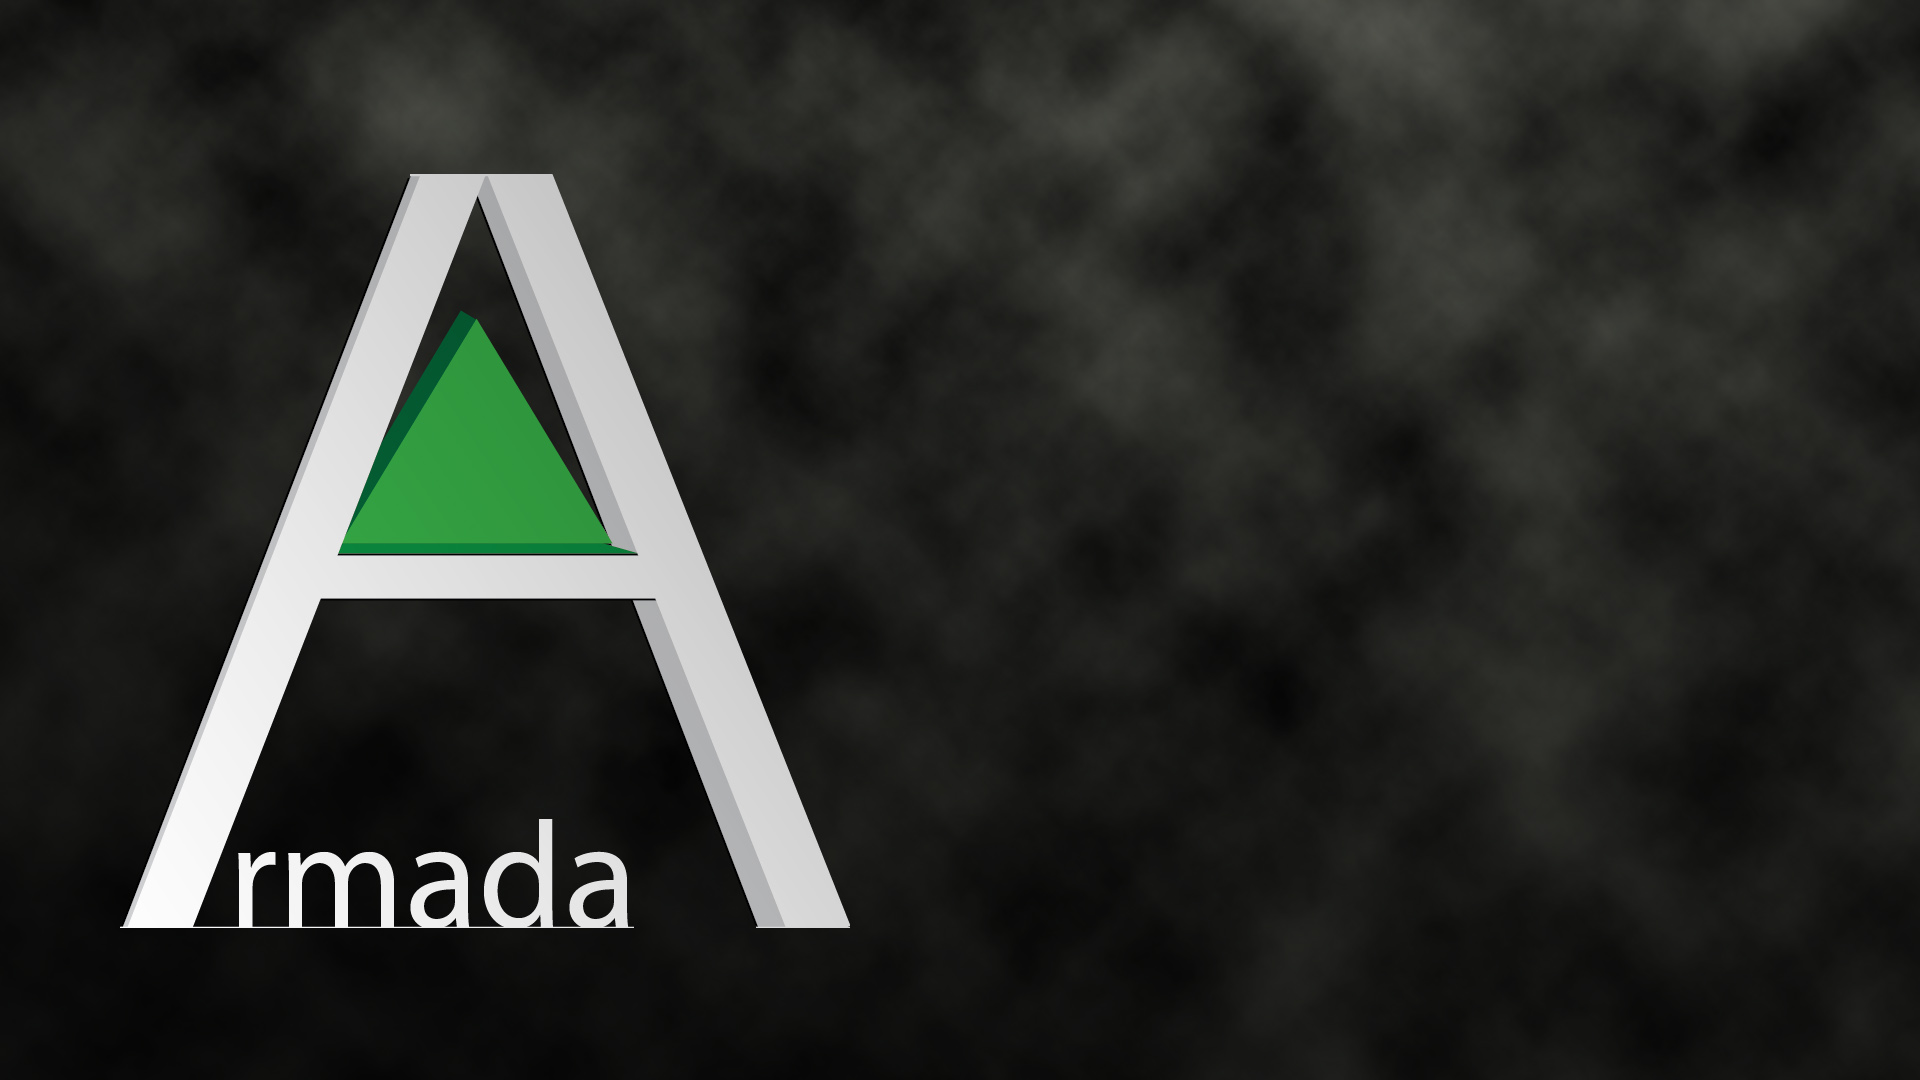
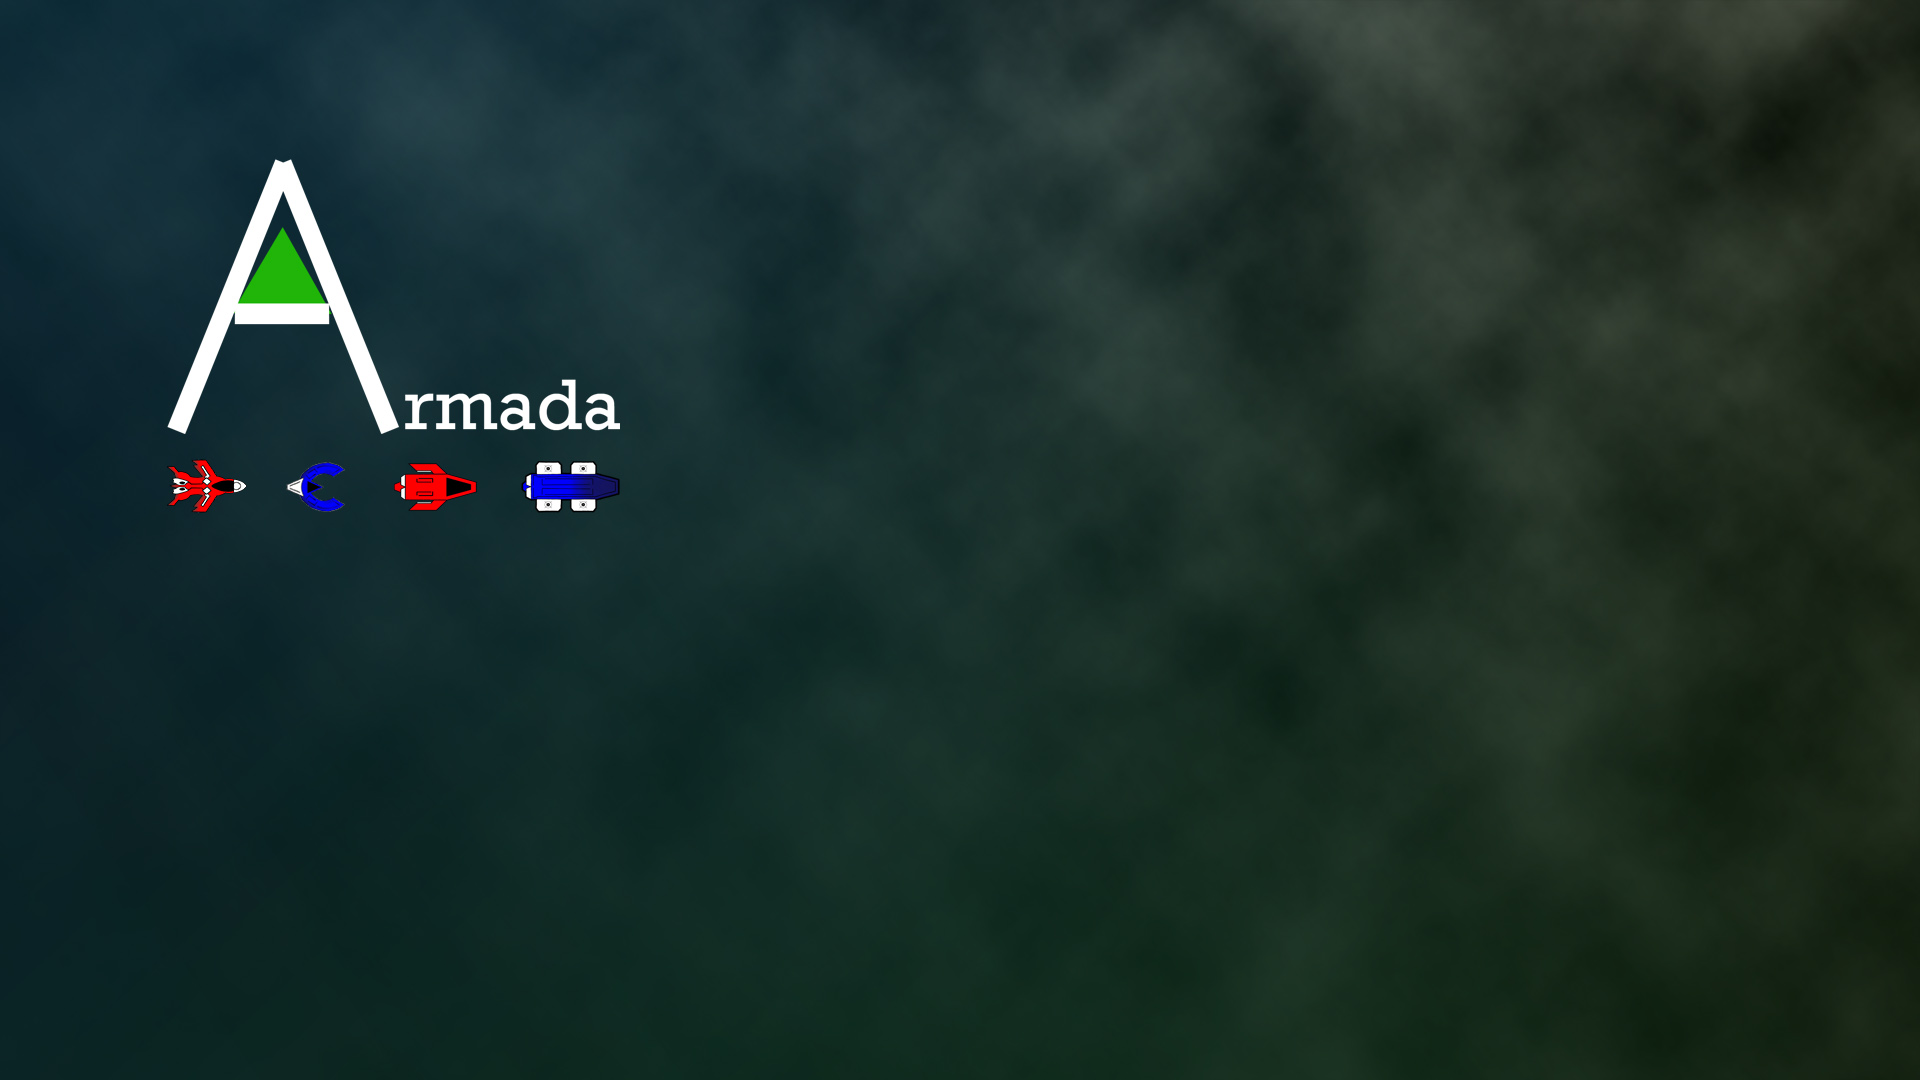
Improved Main Menu Screen

diff --git a/Armada/src/view/MainMenuPanel.java b/Armada/src/view/MainMenuPanel.java
@@ -22,28 +22,21 @@ A class representing the main menu of the system.
 public class MainMenuPanel extends JPanel implements ActionListener{
     private boolean launchingGame = false;
     ApplicationManager am;
-    private JProgressBar progressBar = new JProgressBar(0, PreloadImageList.getList().length);
     JButton startButton = new JButton("Start Game Old Way");
     JButton startButton2 = new JButton("Single Player");
     JButton exitButton = new JButton("Quit Game");
     JButton networkedGameHostButton = new JButton("New Multiplayer Host");
     JButton networkedGameClientButton = new JButton("Connect to Multiplayer Host");
     private String message = "";
-    
+    private float progress = 0.0f;
     BufferedImage backgroundImage;
-    static final String IMAGE_NAME = "ArmadaBackground2";
-    
+    static final String IMAGE_NAME = "ArmadaBackground";
     /**
     Creates a new instance of MainMenuPanel.
     */
     public MainMenuPanel(ApplicationManager am) {
         this.am = am;
         
-        progressBar.setValue(0);
-	JPanel progressPanel = new JPanel();
-	progressPanel.setLayout(new BoxLayout(progressPanel, BoxLayout.PAGE_AXIS));
-	progressPanel.add(progressBar);
-	progressPanel.setPreferredSize(new Dimension(100, 50)); 
         // Setup the buttons
         startButton.addActionListener(this);
 	startButton.setPreferredSize(new Dimension(500, 30));
@@ -63,8 +56,13 @@ public class MainMenuPanel extends JPanel implements ActionListener{
         //buttonsPanel.add(startButton);
         buttonsPanel.setBorder(new EmptyBorder(100,400,250,10));
         buttonsPanel.setOpaque(false);
-        this.add(buttonsPanel, BorderLayout.NORTH);
-        this.add(progressBar, BorderLayout.SOUTH);
+	this.setLayout(null);
+	int offsetx = 550;
+	int offsety = 250;
+	startButton2.setBounds(offsetx, offsety, 200, 25);
+	exitButton.setBounds(offsetx, offsety + 30, 200, 25);
+	this.add(startButton2);
+	this.add(exitButton);
         
         // Load the background image
         File f = new File(IMAGE_NAME+ ".jpg");
@@ -75,7 +73,6 @@ public class MainMenuPanel extends JPanel implements ActionListener{
     public MainMenuPanel(ApplicationManager am,String img) {
         this.am = am;
         
-        progressBar.setValue(0);
         
         // Setup the buttons
         startButton.addActionListener(this);
@@ -95,7 +92,6 @@ public class MainMenuPanel extends JPanel implements ActionListener{
         buttonsPanel.setBorder(new EmptyBorder(100,400,250,10));
         buttonsPanel.setOpaque(false);
         this.add(buttonsPanel, BorderLayout.NORTH);
-        this.add(progressBar, BorderLayout.SOUTH);
         
         // Load the background image
         File f = new File(IMAGE_NAME+ ".jpg");
@@ -116,7 +112,7 @@ public class MainMenuPanel extends JPanel implements ActionListener{
             startButton2.setLabel(message);
             Thread resourceLoaderThread = new Thread(new ResourceLoader());
             resourceLoaderThread.start();
-            
+	    repaint();    
         } else if (evt.getSource() == networkedGameHostButton) {
             am.startNetworkedGame();
         } else if (evt.getSource() == networkedGameClientButton) {
@@ -150,7 +146,26 @@ public class MainMenuPanel extends JPanel implements ActionListener{
             System.out.println("Repainting");
             //repaint();
         }
+	g2d.setColor(new Color(0.5f, 0.5f, 0.5f, 0.7f));
+	System.out.println("Width: " + this.getWidth() + "; height: " + this.getHeight());
+	
         g2d.setTransform(at);
+	if (launchingGame) {
+	g2d.fillRect(this.getWidth()/2 - 250, this.getHeight() - 100, 500, 50);
+	g2d.setColor(Color.WHITE);
+	System.out.println("P: " + progress);
+	//progress = 1.0f;
+	g2d.fillRect((int)(this.getWidth()/2 - (int)(500.0 * progress / 2.0f)), this.getHeight() - 100, (int)(500.0*progress), 50);
+	//System.sleep(100);
+	    try {
+	    Thread.sleep(10);
+	    } catch (Exception e) {
+    
+	    }
+	    repaint();
+	}
+	
+	
     }
     
     /**
@@ -161,7 +176,9 @@ public class MainMenuPanel extends JPanel implements ActionListener{
         String[] list = PreloadImageList.getList();
             BufferedImage img = null;
             for (int i = 0; i < list.length; i++) {
-                progressBar.setValue(i+1);
+		progress = (float)((i*1.0+1.0) / (1.0*list.length));
+		
+		System.out.println("Progress: " + progress);
                 ImageLoader.getInstance().preloadImageAsync(list[i]);
                 
                 boolean quit = false;

diff --git a/Armada/src/game/ApplicationManager.java b/Armada/src/game/ApplicationManager.java
@@ -64,6 +64,7 @@ public class ApplicationManager implements ChangeListener {
 	if (gd.isFullScreenSupported()) {
 	    window.setUndecorated(true);
 	    gd.setFullScreenWindow(window);
+	    mainPanel.repaint();
 	} else {
 	    System.err.println("Full screen not supported");
 	}
